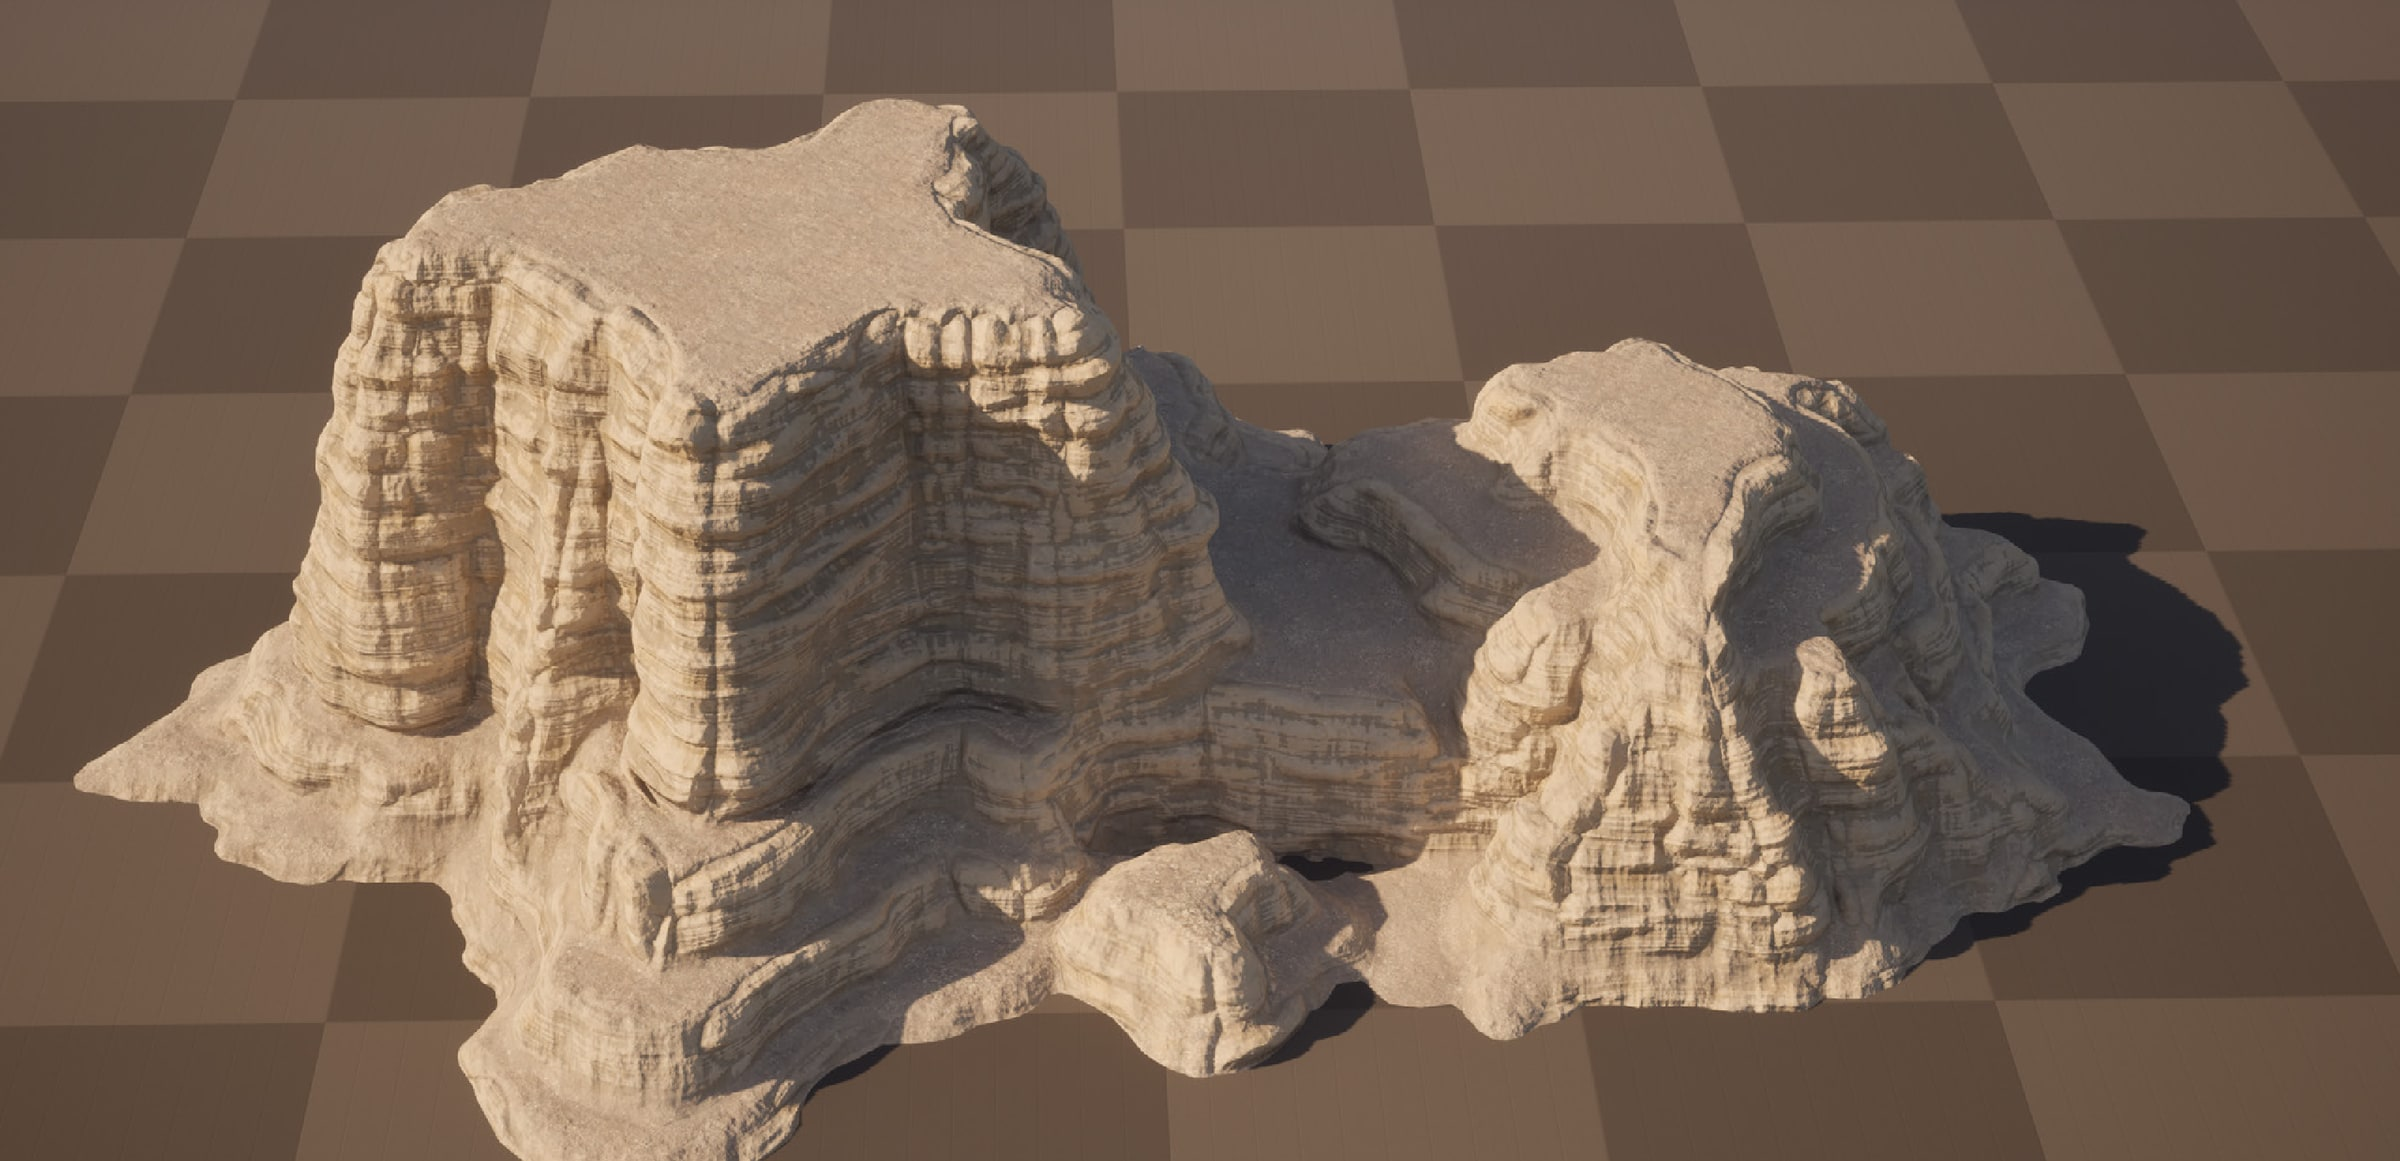
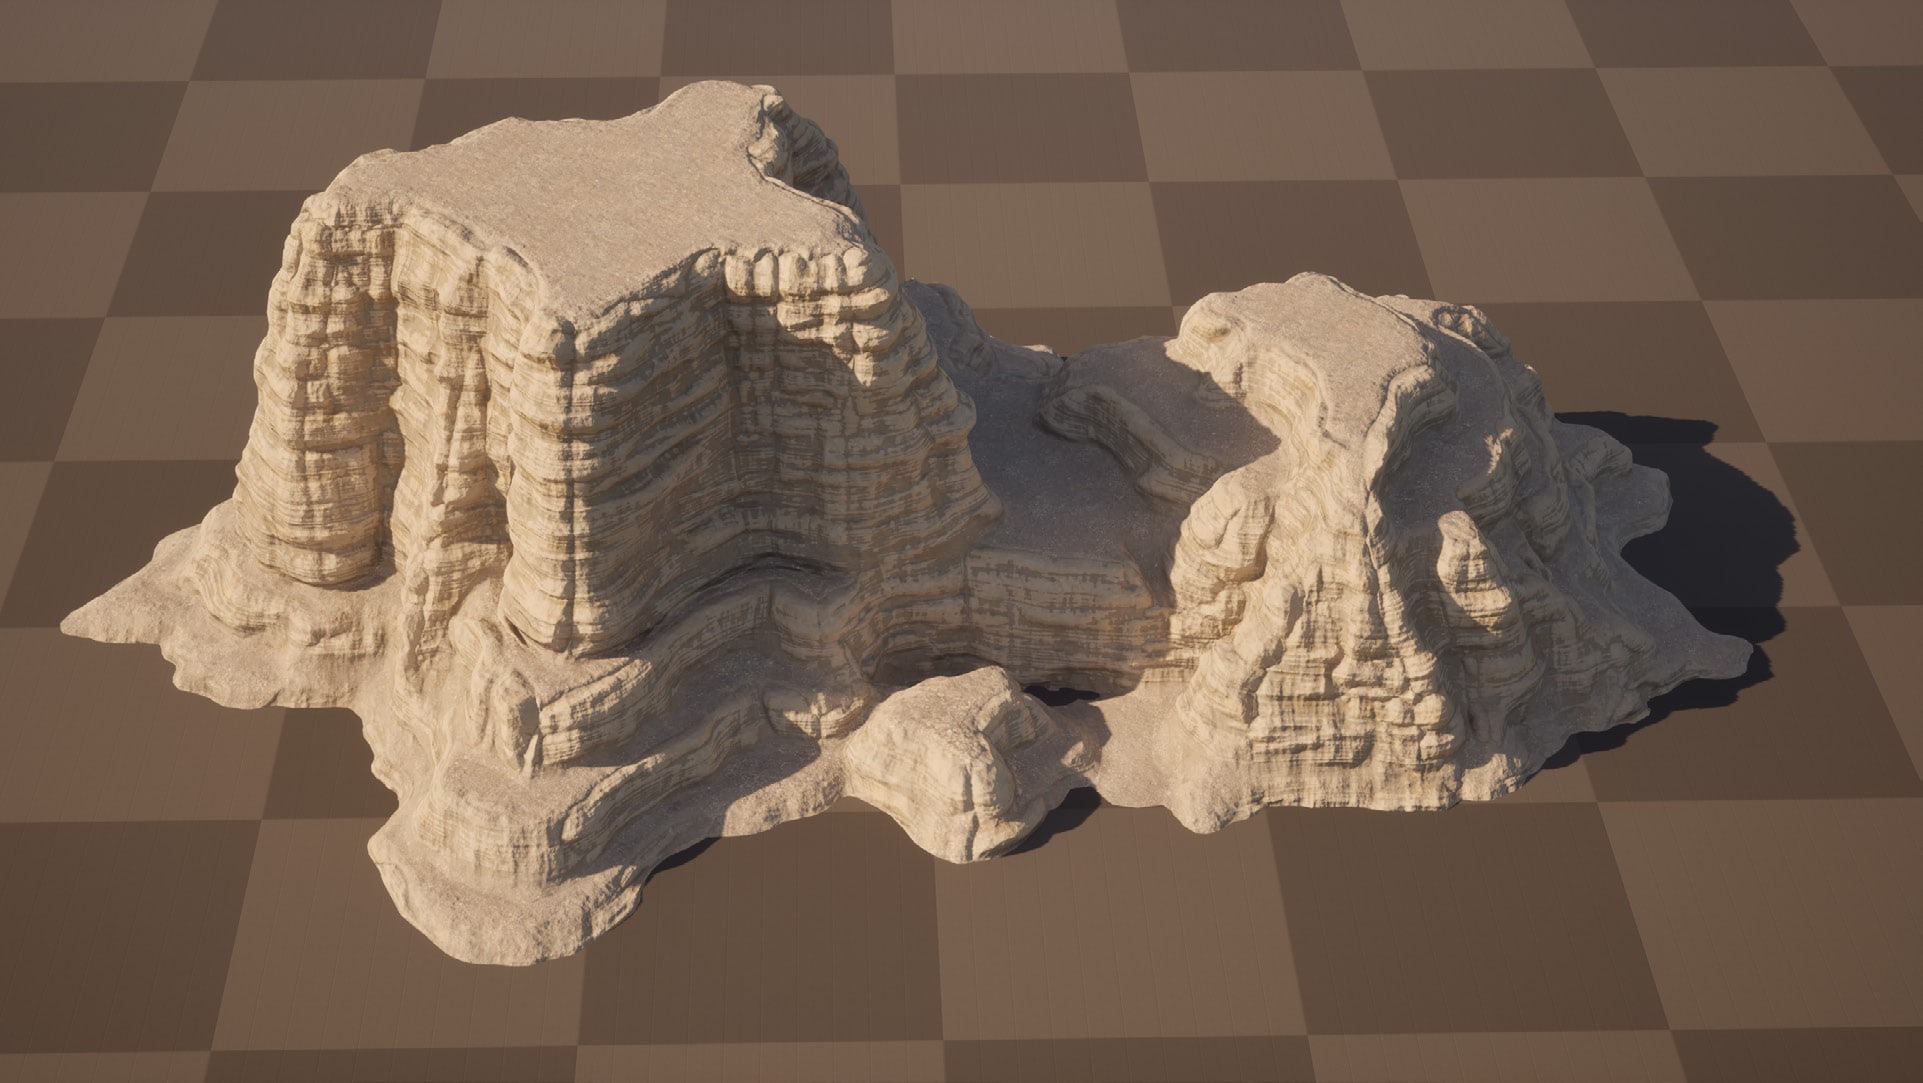
Original TAU-XR assets; swap PDF crops for embedded originals

Changed region(s): [[0.0312, 0.0609, 0.936, 1.0], [0.0936, 0.8227, 0.1248, 0.8837]]

diff --git a/projects/tau-xr.html b/projects/tau-xr.html
@@ -19,8 +19,7 @@
   </div>
 
   <figure>
-    <!-- placeholder from PDF, swap for source -->
-    <img src="../images/tau-xr/logo.jpg" width="2400" height="1161" alt="TAU-XR logotype">
+    <img src="../images/tau-xr/logo.jpg" width="2400" height="1160" alt="TAU-XR logotype">
   </figure>
   <figure>
     <div class="bleed">
@@ -34,9 +33,25 @@
     <figcaption>Business cards.</figcaption>
   </figure>
   <figure>
-    <!-- placeholder from PDF, swap for source -->
-    <img src="../images/tau-xr/print.jpg" width="2400" height="1161" alt="Envelopes, poster and cards" loading="lazy">
-    <figcaption>Printed materials.</figcaption>
+    <!-- columns sized by aspect ratio so both images share one height -->
+    <div class="row" style="grid-template-columns: 2.033fr .5625fr">
+      <img src="../images/tau-xr/web-desktop.jpg" width="1834" height="902" alt="TAU-XR website, desktop" loading="lazy">
+      <img src="../images/tau-xr/web-phone.jpg" width="1080" height="1920" alt="TAU-XR website, mobile" loading="lazy">
+    </div>
+    <figcaption>Web design.</figcaption>
+  </figure>
+  <figure>
+    <div class="row" style="--n:2">
+      <img src="../images/tau-xr/envelope.png" width="1493" height="853" alt="Envelope front" loading="lazy">
+      <img src="../images/tau-xr/envelope2.png" width="1525" height="858" alt="Envelope back" loading="lazy">
+    </div>
+  </figure>
+  <figure>
+    <div class="row narrow" style="--n:2; max-width:1200px">
+      <img src="../images/tau-xr/year-in-review-1.jpg" width="1600" height="2262" alt="Year in Review, page 1" loading="lazy">
+      <img src="../images/tau-xr/year-in-review-2.jpg" width="1600" height="2262" alt="Year in Review, page 2" loading="lazy">
+    </div>
+    <figcaption>Printed materials: envelopes and the center’s Year in Review.</figcaption>
   </figure>
 </main>
 

diff --git a/projects/trailz.html b/projects/trailz.html
@@ -24,8 +24,12 @@
   </figure>
 
   <figure>
-    <!-- placeholder from PDF, swap for source -->
-    <img src="../images/trailz/card-drop.jpg" width="2400" height="1161" alt="Card drop tiers" loading="lazy">
+    <div class="row narrow" style="--n:4; max-width:1100px">
+      <img src="../images/trailz/card-drop-1.png" width="319" height="663" alt="Card drop, basic" loading="lazy">
+      <img src="../images/trailz/card-drop-2.png" width="319" height="664" alt="Card drop, boosted" loading="lazy">
+      <img src="../images/trailz/card-drop-3.png" width="322" height="667" alt="Card drop, hyper" loading="lazy">
+      <img src="../images/trailz/card-drop-4.png" width="317" height="659" alt="Card drop, reveal" loading="lazy">
+    </div>
     <figcaption>Shaders and technical animation for the card drop: holo foil cards, tiered animated backgrounds and an escalating tap-to-reveal.</figcaption>
   </figure>
   <figure>
@@ -48,8 +52,7 @@
   </figure>
 
   <figure>
-    <!-- placeholder from PDF, swap for source -->
-    <img src="../images/trailz/arena-park.jpg" width="2400" height="1161" alt="Park arena with paint" loading="lazy">
+    <img src="../images/trailz/arena-park.jpg" width="1923" height="1083" alt="Park arena with paint" loading="lazy">
     <figcaption>Built arenas for multiple game modes alongside the 3D modeling lead and art director, owning lighting and bake workflows, texturing, material authoring and optimization, plus blockout and concept on some arenas.</figcaption>
   </figure>
   <figure>

diff --git a/projects/houdini.html b/projects/houdini.html
@@ -19,8 +19,7 @@
   </div>
 
   <figure>
-    <!-- placeholder from PDF, swap for source -->
-    <img src="../images/houdini/rock.jpg" width="2400" height="1161" alt="Procedural rock formation">
+    <img src="../images/houdini/rock.jpg" width="1923" height="1083" alt="Procedural rock formation">
   </figure>
   <figure>
     <div class="row">
